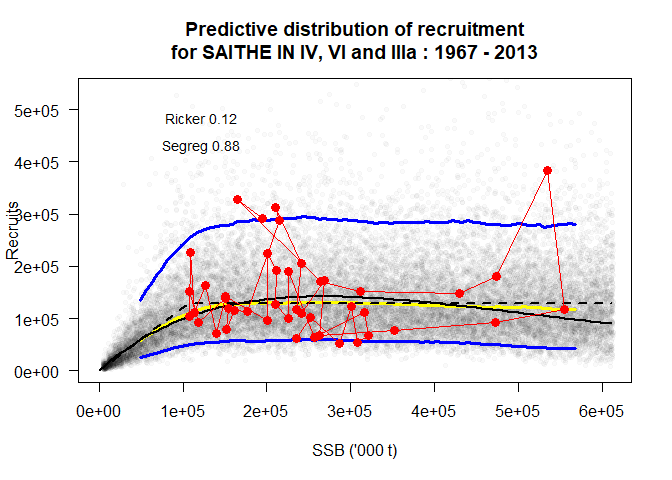
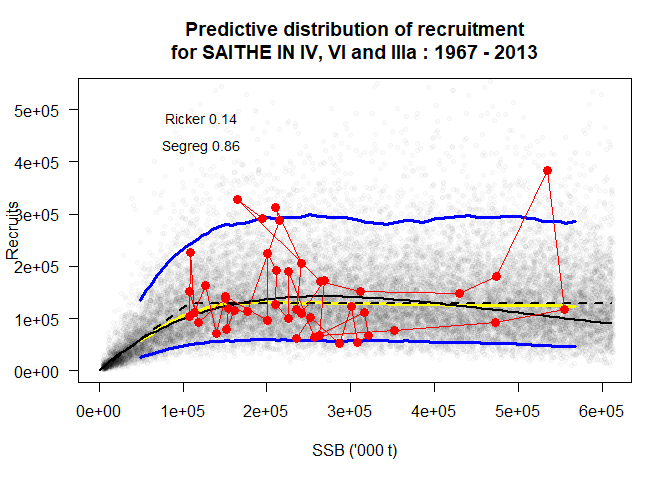
update readme

Changed region(s): [[0.1562, 0.4375, 0.9375, 0.75], [0.3438, 0.2812, 0.375, 0.3125], [0.3438, 0.2188, 0.375, 0.25]]

diff --git a/README.md b/README.md
@@ -59,89 +59,6 @@ library(devtools)
 install_github("ices-tools-prod/msy")
 ```
 
-    ## 
-    ##   
-      
-      
-       checking for file 'D:\projects\git\ices-tools-prod\msy/DESCRIPTION' ...
-      
-       checking for file 'D:\projects\git\ices-tools-prod\msy/DESCRIPTION' ... 
-      
-    v  checking for file 'D:\projects\git\ices-tools-prod\msy/DESCRIPTION' (528ms)
-    ## 
-      
-      
-      
-    -  preparing 'msy': (1.1s)
-    ##   
-      
-       checking DESCRIPTION meta-information ...
-      
-       checking DESCRIPTION meta-information ... 
-      
-    v  checking DESCRIPTION meta-information
-    ## 
-      
-      
-      
-    -  checking for LF line-endings in source and make files and shell scripts (1.1s)
-    ## 
-      
-      
-      
-    -  checking for empty or unneeded directories
-    ## 
-      
-      
-      
-    -  looking to see if a 'data/datalist' file should be added
-    ## 
-      
-      
-      
-    -  building 'msy_0.1.18.tar.gz'
-    ## 
-      
-       
-    ## 
-    Running "D:/programs/R/R-3.5/bin/x64/Rcmd.exe" INSTALL \
-    ##   "C:\Users\colin\AppData\Local\Temp\RtmpK4nngL/msy_0.1.18.tar.gz" \
-    ##   --install-tests 
-    ## * installing to library 'D:/R/win-library/3.5'
-    ## * installing *source* package 'msy' ...
-    ## ** R
-    ## ** data
-    ## *** moving datasets to lazyload DB
-    ## ** byte-compile and prepare package for lazy loading
-    ## ** help
-    ## *** installing help indices
-    ##   converting help for package     finding HTML links ...'msy'
-    ##  done
-    ##     Bevholt                                 html  
-    ##     Ricker                                  html  
-    ##     Segreg                                  html  
-    ##     bevholt2                                html  
-    ##     eqsim_ggplot                            html  
-    ##     eqsim_plot                              html  
-    ##     eqsim_plot_range                        html  
-    ##     eqsim_range                             html  
-    ##     eqsim_run                               html  
-    ##     eqsr_Buckland                           html  
-    ##     eqsr_fit                                html  
-    ##     eqsr_plot                               html  
-    ##     icesStocks                              html  
-    ##     initial                                 html  
-    ##     llik                                    html  
-    ##     msy-package                             html  
-    ##     segreg2                                 html  
-    ##     smooth_hockey                           html  
-    ## ** building package indices
-    ## ** testing if installed package can be loaded
-    ## *** arch - i386
-    ## *** arch - x64
-    ## * DONE (msy)
-    ## In R CMD INSTALL
-
 The above is equivalent to `install.packages` and hence need only to be
 performed once. However, since the `msy` package is currently under
 development (including bug-fixing) one may expect more frequent code
@@ -211,8 +128,8 @@ FIT <- eqsr_fit(icesStocks$saiNS,
                 nsamp = 1000,
                 models = c("Ricker", "Segreg"))
 SIM <- eqsim_run(FIT,
-                 bio.years = 2004:2013,
-                 sel.years = 2004:2013,
+                 bio.years = c(2004, 2013),
+                 sel.years = c(2004, 2013),
                  Fcv = 0.24,
                  Fphi = 0.42,
                  Blim = 106000,
@@ -238,18 +155,18 @@ SIM$Refs
 
 ``` 
                   F05          F10          F50    medianMSY      meanMSY
-catF     3.710933e-01 3.941449e-01 4.946953e-01 1.846154e-01 2.153846e-01
-lanF               NA           NA           NA 1.846154e-01 2.153846e-01
-catch    1.238782e+05 1.208750e+05 9.460774e+04 1.300622e+05 1.304077e+05
-landings           NA           NA           NA 1.300622e+05 1.304077e+05
-catB     1.949532e+05 1.782281e+05 1.057544e+05 4.090448e+05 3.543909e+05
-lanB               NA           NA           NA 4.090448e+05 3.543909e+05
+catF     3.675774e-01 3.940308e-01 4.990954e-01 3.076923e-01 3.076923e-01
+lanF               NA           NA           NA 3.076923e-01 3.076923e-01
+catch    1.265605e+05 1.239753e+05 9.571695e+04 1.284774e+05 1.284774e+05
+landings           NA           NA           NA 1.284774e+05 1.284774e+05
+catB     2.126939e+05 1.909209e+05 1.057146e+05 2.684618e+05 2.684618e+05
+lanB               NA           NA           NA 2.684618e+05 2.684618e+05
              FCrash05     FCrash50
-catF     4.615385e-01    0.6153846
+catF     4.923077e-01    0.6153846
 lanF               NA           NA
-catch    1.058257e+05 2924.6731442
+catch    9.907078e+04 3703.8785837
 landings           NA           NA
-catB     1.296521e+05 2511.8059881
+catB     1.113816e+05 3091.0668735
 lanB               NA           NA
 ```
 
@@ -337,18 +254,18 @@ str(FIT, 2, give.attr=FALSE)
 
     List of 6
      $ sr.sto:'data.frame': 1000 obs. of  4 variables:
-      ..$ a    : num [1:1000] 1.19 1.29 1.21 1.24 1.92 ...
-      ..$ b.b  : num [1:1000] 9.29e+04 1.06e+05 1.06e+05 1.04e+05 5.38e-06 ...
-      ..$ cv   : num [1:1000] 0.45 0.541 0.471 0.42 0.498 ...
+      ..$ a    : num [1:1000] 0.872 1.001 1.157 1.172 1.429 ...
+      ..$ b.b  : num [1:1000] 164413 126196 106372 111533 88874 ...
+      ..$ cv   : num [1:1000] 0.494 0.51 0.46 0.565 0.462 ...
       ..$ model: chr [1:1000] "Segreg" "Segreg" "Segreg" "Segreg" ...
      $ sr.det:'data.frame': 2 obs. of  6 variables:
       ..$ a    : num [1:2] 1.44 1.21
       ..$ b    : num [1:2] 3.74e-06 1.06e+05
       ..$ cv   : num [1:2] 0.521 0.492
       ..$ model: chr [1:2] "Ricker" "Segreg"
-      ..$ n    : int [1:2] 120 880
-      ..$ prop : num [1:2] 0.12 0.88
-     $ pRec  : num [1:1000, 1:44] 110142 136639 128081 128952 115870 ...
+      ..$ n    : int [1:2] 142 858
+      ..$ prop : num [1:2] 0.142 0.858
+     $ pRec  : num [1:1000, 1:44] 93482 107228 123056 125553 127043 ...
      $ stk   :Formal class 'FLStock' [package "FLCore"] with 20 slots
      $ rby   :'data.frame': 44 obs. of  7 variables:
       ..$ year        : int [1:44] 1967 1968 1969 1970 1971 1972 1973 1974 1975 1976 ...
@@ -384,9 +301,9 @@ FIT$sr.det
 ```
 
 ``` 
-         a            b        cv  model   n prop
-1 1.443935 3.743708e-06 0.5207246 Ricker 120 0.12
-2 1.212853 1.062150e+05 0.4917162 Segreg 880 0.88
+         a            b        cv  model   n  prop
+1 1.443935 3.743708e-06 0.5207246 Ricker 142 0.142
+2 1.212853 1.062150e+05 0.4917162 Segreg 858 0.858
 ```
 
 Here the a, b and cv are the estimated parameters from the deterministic
@@ -446,17 +363,19 @@ that if there is no variability in these quantities in the stock object
 then no variability will be taken in to the simulations. The user can
 also specify using average values for these parameters.
 
-The arguments to the simulation function are:
+The arguments to the simulation function
+    are:
 
 ``` r
 args(eqsim_run)
 ```
 
-    function (fit, bio.years = c(2008, 2012), bio.const = FALSE, 
-        sel.years = c(2008, 2012), sel.const = FALSE, Fscan = seq(0, 
-            1, len = 20), Fcv = 0, Fphi = 0, SSBcv = 0, rhologRec = FALSE, 
-        Blim, Bpa, recruitment.trim = c(3, -3), Btrigger = 0, Nrun = 200, 
-        process.error = TRUE, verbose = TRUE, extreme.trim) 
+    function (fit, bio.years = c(-5, -1) + FLCore::dims(fit$stk)$maxyear, 
+        bio.const = FALSE, sel.years = c(-5, -1) + FLCore::dims(fit$stk)$maxyear, 
+        sel.const = FALSE, Fscan = seq(0, 2, len = 40), Fcv = 0, 
+        Fphi = 0, SSBcv = 0, rhologRec = TRUE, Blim, Bpa, recruitment.trim = c(3, 
+            -3), Btrigger = 0, Nrun = 200, process.error = TRUE, 
+        verbose = TRUE, extreme.trim = c(0, 1)) 
     NULL
 
 where:
@@ -503,15 +422,15 @@ str(SIM, 2, give.attr = FALSE)
 
     List of 11
      $ ibya         :List of 7
-      ..$ Mat  : num [1:8, 1:2] 0 0.15 0.7 0.9 1 1 1 1 0 0.15 ...
-      ..$ M    : num [1:8, 1:2] 0.2 0.2 0.2 0.2 0.2 0.2 0.2 0.2 0.2 0.2 ...
+      ..$ Mat  : num [1:8, 1:10] 0 0.15 0.7 0.9 1 1 1 1 0 0.15 ...
+      ..$ M    : num [1:8, 1:10] 0.2 0.2 0.2 0.2 0.2 0.2 0.2 0.2 0.2 0.2 ...
       ..$ Fprop: Named num [1:8] 0 0 0 0 0 0 0 0
       ..$ Mprop: Named num [1:8] 0 0 0 0 0 0 0 0
-      ..$ west : num [1:8, 1:2] 0.964 1.116 1.382 1.74 2.722 ...
-      ..$ weca : num [1:8, 1:2] 0.964 1.116 1.382 1.74 2.722 ...
-      ..$ sel  : num [1:8, 1:2] 0.315 1.006 1.186 1.493 1.529 ...
+      ..$ west : num [1:8, 1:10] 0.964 1.116 1.382 1.74 2.722 ...
+      ..$ weca : num [1:8, 1:10] 0.964 1.116 1.382 1.74 2.722 ...
+      ..$ sel  : num [1:8, 1:10] 0.315 1.006 1.186 1.493 1.529 ...
      $ rbya         :List of 1
-      ..$ ferr: num [1:40, 1:50, 1:1000] 0.203 0.203 0.203 0.203 0.203 ...
+      ..$ ferr: num [1:40, 1:50, 1:1000] -0.325 -0.325 -0.325 -0.325 -0.325 ...
      $ rby          :'data.frame':  44 obs. of  7 variables:
       ..$ year        : int [1:44] 1967 1968 1969 1970 1971 1972 1973 1974 1975 1976 ...
       ..$ rec         : num [1:44] 291836 327932 171373 152852 148741 ...
@@ -523,32 +442,32 @@ str(SIM, 2, give.attr = FALSE)
      $ rbp          :'data.frame':  160 obs. of  10 variables:
       ..$ Ftarget : num [1:160] 0 0.0308 0.0615 0.0923 0.1231 ...
       ..$ variable: chr [1:160] "Recruitment" "Recruitment" "Recruitment" "Recruitment" ...
-      ..$ p025    : num [1:160] 27483 34415 39018 42237 44708 ...
-      ..$ p05     : num [1:160] 37452 44270 48406 51410 53625 ...
-      ..$ p25     : num [1:160] 81722 84240 86579 88387 89746 ...
-      ..$ p50     : num [1:160] 120450 121736 123263 124674 126146 ...
-      ..$ p75     : num [1:160] 172830 173347 174275 175464 176639 ...
-      ..$ p95     : num [1:160] 287730 288186 288821 289334 290374 ...
-      ..$ p975    : num [1:160] 338087 338714 339744 340541 341655 ...
+      ..$ p025    : num [1:160] 24692 30125 34638 38486 41622 ...
+      ..$ p05     : num [1:160] 34543 40566 45020 48304 50920 ...
+      ..$ p25     : num [1:160] 79877 81924 84214 86068 87716 ...
+      ..$ p50     : num [1:160] 119040 120086 121513 122798 124026 ...
+      ..$ p75     : num [1:160] 171945 172446 173249 174338 175417 ...
+      ..$ p95     : num [1:160] 284900 285154 285648 286480 287147 ...
+      ..$ p975    : num [1:160] 334582 334841 335204 336281 337455 ...
       ..$ Mean    : num [1:160] NA NA NA NA NA NA NA NA NA NA ...
      $ Blim         : num 106000
      $ Bpa          : num 2e+05
-     $ Refs         : num [1:6, 1:7] 3.71e-01 NA 1.24e+05 NA 1.95e+05 ...
+     $ Refs         : num [1:6, 1:7] 3.68e-01 NA 1.27e+05 NA 2.13e+05 ...
      $ pProfile     :'data.frame':  1104 obs. of  3 variables:
-      ..$ Ftarget : num [1:1104] 0.138 0.139 0.14 0.141 0.142 ...
-      ..$ value   : num [1:1104] 0.000203 0.000526 0.001026 0.001782 0.002892 ...
+      ..$ Ftarget : num [1:1104] 0.153 0.154 0.155 0.156 0.157 ...
+      ..$ value   : num [1:1104] 4.23e-07 9.80e-07 1.71e-06 2.65e-06 3.84e-06 ...
       ..$ variable: chr [1:1104] "pFmsyCatch" "pFmsyCatch" "pFmsyCatch" "pFmsyCatch" ...
      $ id.sim       : chr "SAITHE IN IV, VI and IIIa : 1967 - 2013"
      $ refs_interval:'data.frame':  1 obs. of  8 variables:
-      ..$ FmsyMedianC     : num 0.217
-      ..$ FmsylowerMedianC: num 0.121
-      ..$ FmsyupperMedianC: num 0.368
-      ..$ FmsyMedianL     : num 0.217
-      ..$ FmsylowerMedianL: num 0.121
-      ..$ FmsyupperMedianL: num 0.368
-      ..$ F5percRiskBlim  : num 0.371
+      ..$ FmsyMedianC     : num 0.308
+      ..$ FmsylowerMedianC: num 0.199
+      ..$ FmsyupperMedianC: num 0.404
+      ..$ FmsyMedianL     : num 0.308
+      ..$ FmsylowerMedianL: num 0.199
+      ..$ FmsyupperMedianL: num 0.404
+      ..$ F5percRiskBlim  : num 0.368
       ..$ Btrigger        : num 0
-     $ Refs2        : num [1:6, 1:9] 3.71e-01 NA 1.24e+05 NA 1.95e+05 ...
+     $ Refs2        : num [1:6, 1:9] 3.68e-01 NA 1.27e+05 NA 2.13e+05 ...
 
 where
 
@@ -575,11 +494,11 @@ t(SIM$refs_interval)
 ```
 
     ##                       [,1]
-    ## FmsyMedianC      0.2170854
-    ## FmsylowerMedianC 0.1206030
-    ## FmsyupperMedianC 0.3678392
-    ## FmsyMedianL      0.2170854
-    ## FmsylowerMedianL 0.1206030
-    ## FmsyupperMedianL 0.3678392
-    ## F5percRiskBlim   0.3710933
+    ## FmsyMedianC      0.3075377
+    ## FmsylowerMedianC 0.1989950
+    ## FmsyupperMedianC 0.4040201
+    ## FmsyMedianL      0.3075377
+    ## FmsylowerMedianL 0.1989950
+    ## FmsyupperMedianL 0.4040201
+    ## F5percRiskBlim   0.3675774
     ## Btrigger         0.0000000
